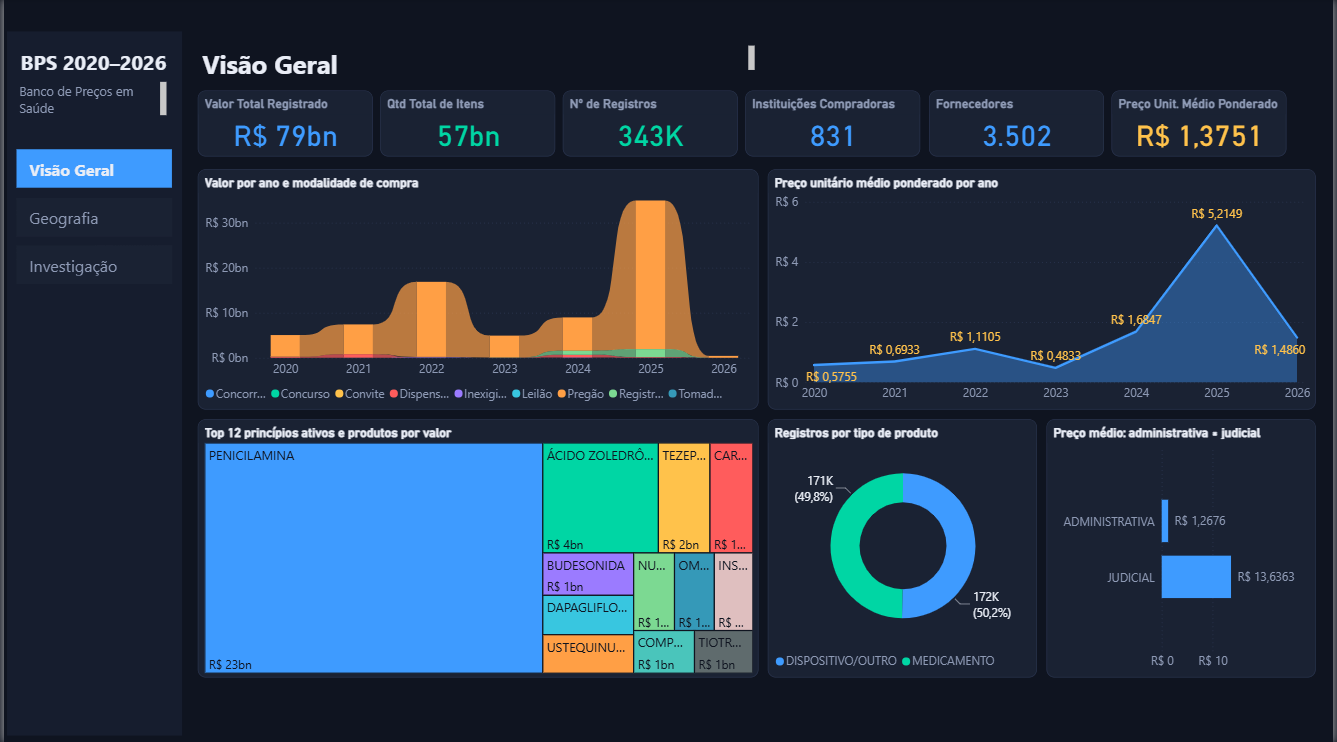
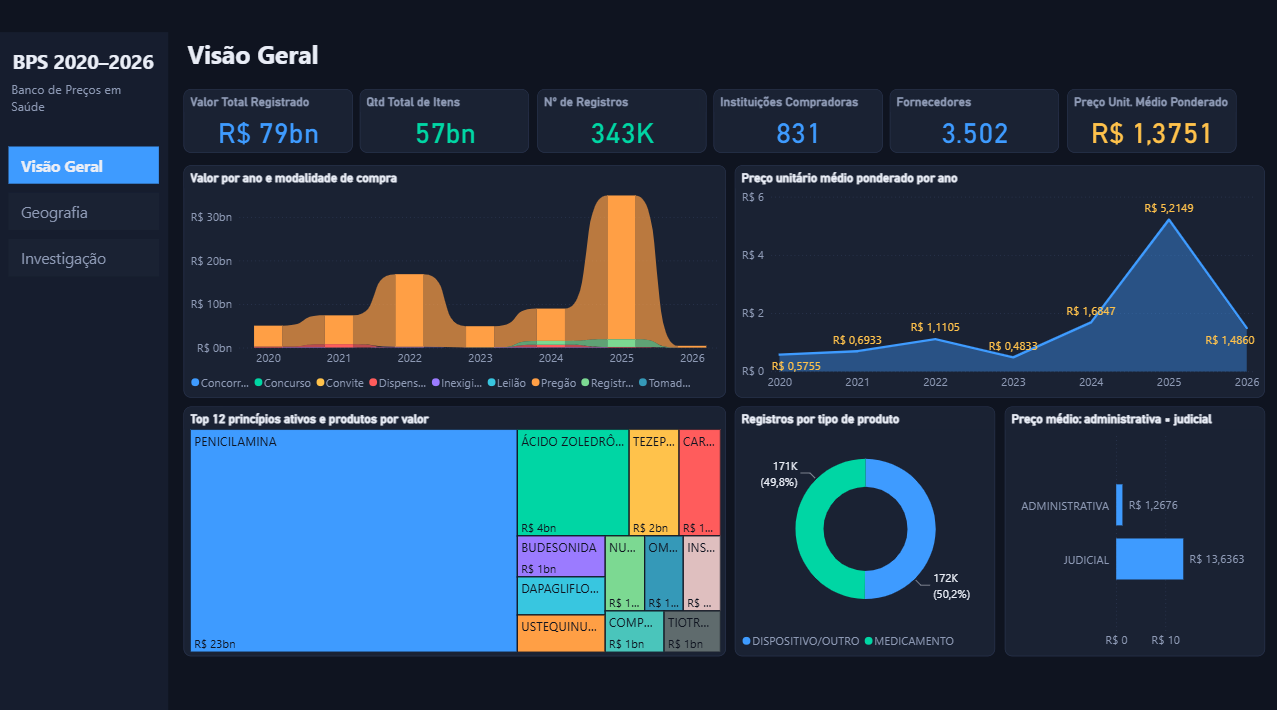
docs: capturas atualizadas do dashboard e cabecalhos legiveis na tabela

diff --git a/src/gerar_dashboard.py b/src/gerar_dashboard.py
@@ -112,8 +112,16 @@ def col(tab: str, nome: str) -> dict:
     return {"Column": {"Expression": {"SourceRef": {"Entity": tab}}, "Property": nome}}
 
 
-def proj(campo: dict, ref: str) -> dict:
-    return {"field": campo, "queryRef": ref, "active": True}
+def proj(campo: dict, ref: str, rotulo: str | None = None) -> dict:
+    """Projeção de um campo no visual.
+
+    `rotulo` vira o cabeçalho exibido. Sem ele a tabela mostra o nome cru da
+    coluna — "ano_co mpra", "razao_vs_med iana" — quebrando no meio da palavra.
+    """
+    p = {"field": campo, "queryRef": ref, "active": True}
+    if rotulo:
+        p["displayName"] = rotulo
+    return p
 
 
 def moldura(titulo: str | None, cor_titulo: str = TINTA) -> dict:
@@ -448,15 +456,15 @@ def pagina3() -> list:
                sort_med="Valor Registros Atípicos"),
         visual("tabela", "tableEx", x0, 556, 1396, 280,
                {"Values": [
-                   proj(col(TABELA, "ano_compra"), f"{TABELA}.ano_compra"),
-                   proj(col(TABELA, "instituicao"), f"{TABELA}.instituicao"),
-                   proj(col(TABELA, "principio_ativo"), f"{TABELA}.principio_ativo"),
-                   proj(col(TABELA, "unidade_fornecimento"), f"{TABELA}.unidade_fornecimento"),
-                   proj(col(TABELA, "qtd_itens_comprados"), f"{TABELA}.qtd_itens_comprados"),
-                   proj(col(TABELA, "preco_unitario"), f"{TABELA}.preco_unitario"),
-                   proj(col(TABELA, "mediana_grupo"), f"{TABELA}.mediana_grupo"),
-                   proj(col(TABELA, "razao_vs_mediana"), f"{TABELA}.razao_vs_mediana"),
-                   proj(med("Valor Total Registrado"), f"{TABELA}.Valor Total Registrado")]},
+                   proj(col(TABELA, "ano_compra"), f"{TABELA}.ano_compra", "Ano"),
+                   proj(col(TABELA, "instituicao"), f"{TABELA}.instituicao", "Instituição"),
+                   proj(col(TABELA, "principio_ativo"), f"{TABELA}.principio_ativo", "Produto"),
+                   proj(col(TABELA, "unidade_fornecimento"), f"{TABELA}.unidade_fornecimento", "Unidade"),
+                   proj(col(TABELA, "qtd_itens_comprados"), f"{TABELA}.qtd_itens_comprados", "Quantidade"),
+                   proj(col(TABELA, "preco_unitario"), f"{TABELA}.preco_unitario", "Preço unitário"),
+                   proj(col(TABELA, "mediana_grupo"), f"{TABELA}.mediana_grupo", "Mediana do grupo"),
+                   proj(col(TABELA, "razao_vs_mediana"), f"{TABELA}.razao_vs_mediana", "Razão"),
+                   proj(med("Valor Total Registrado"), f"{TABELA}.Valor Total Registrado", "Valor total")]},
                "Registros a verificar — maiores valores da base",
                # A tabela usa fontColorPrimary/backColorPrimary (e o par
                # Secondary das linhas alternadas). Com fontColor/backColor o
